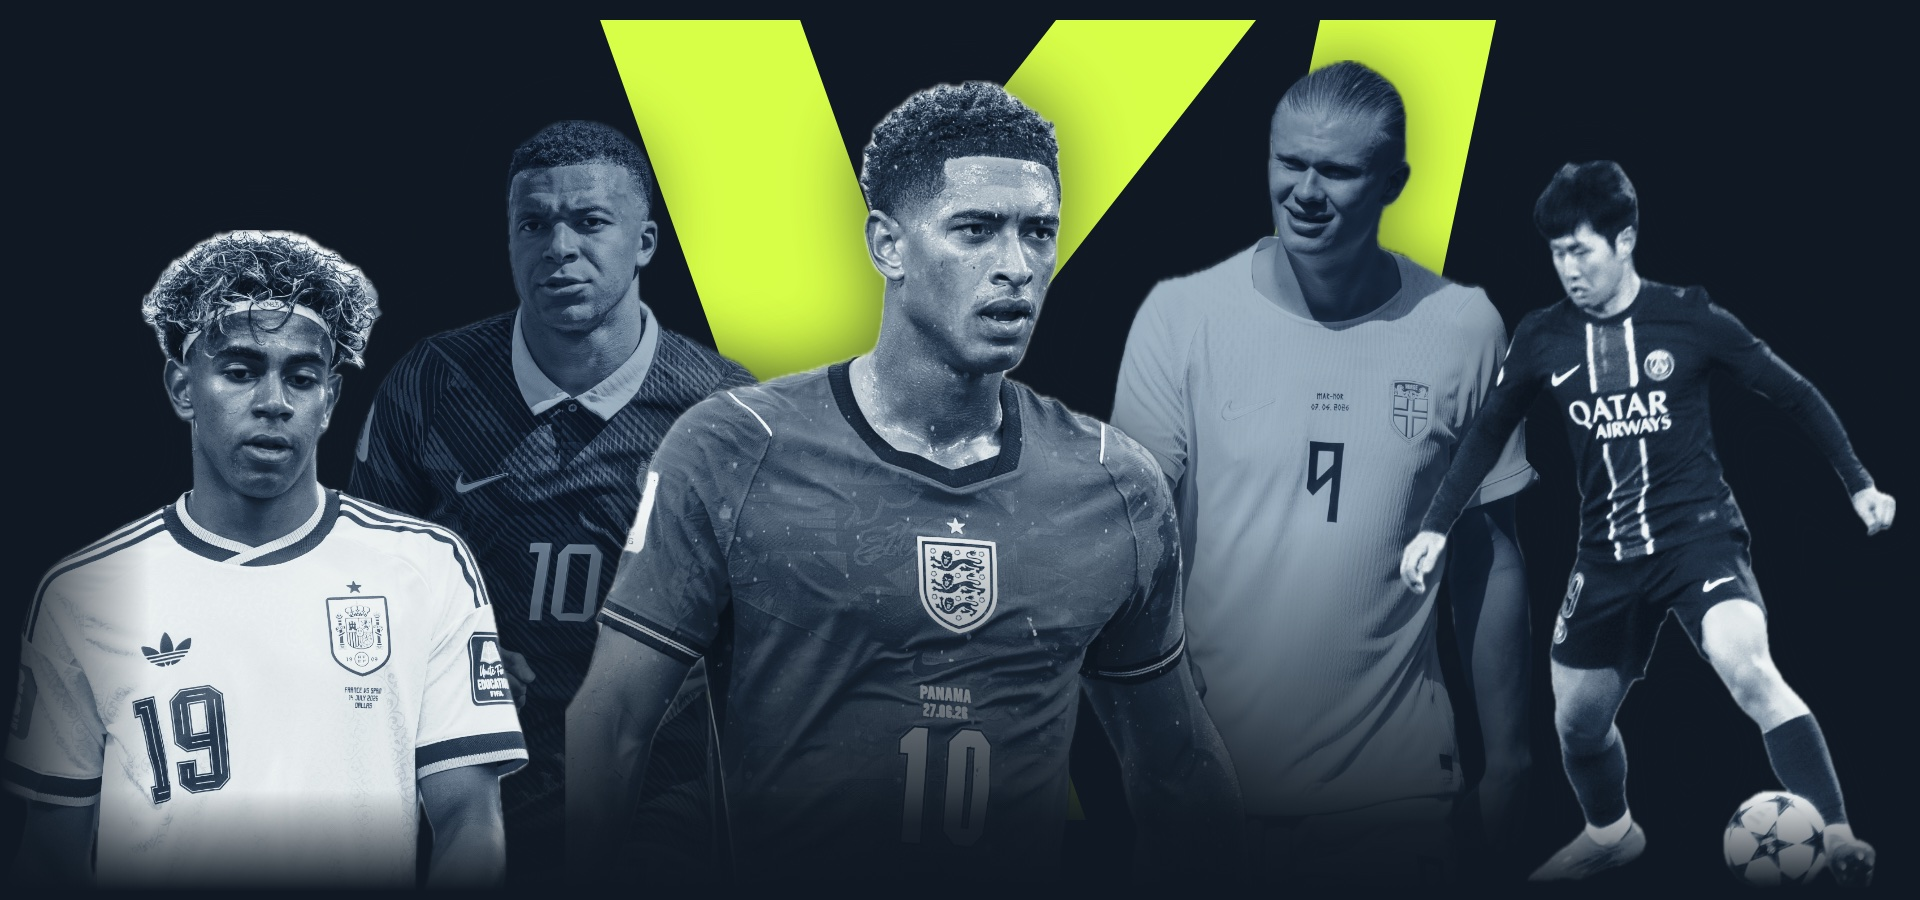
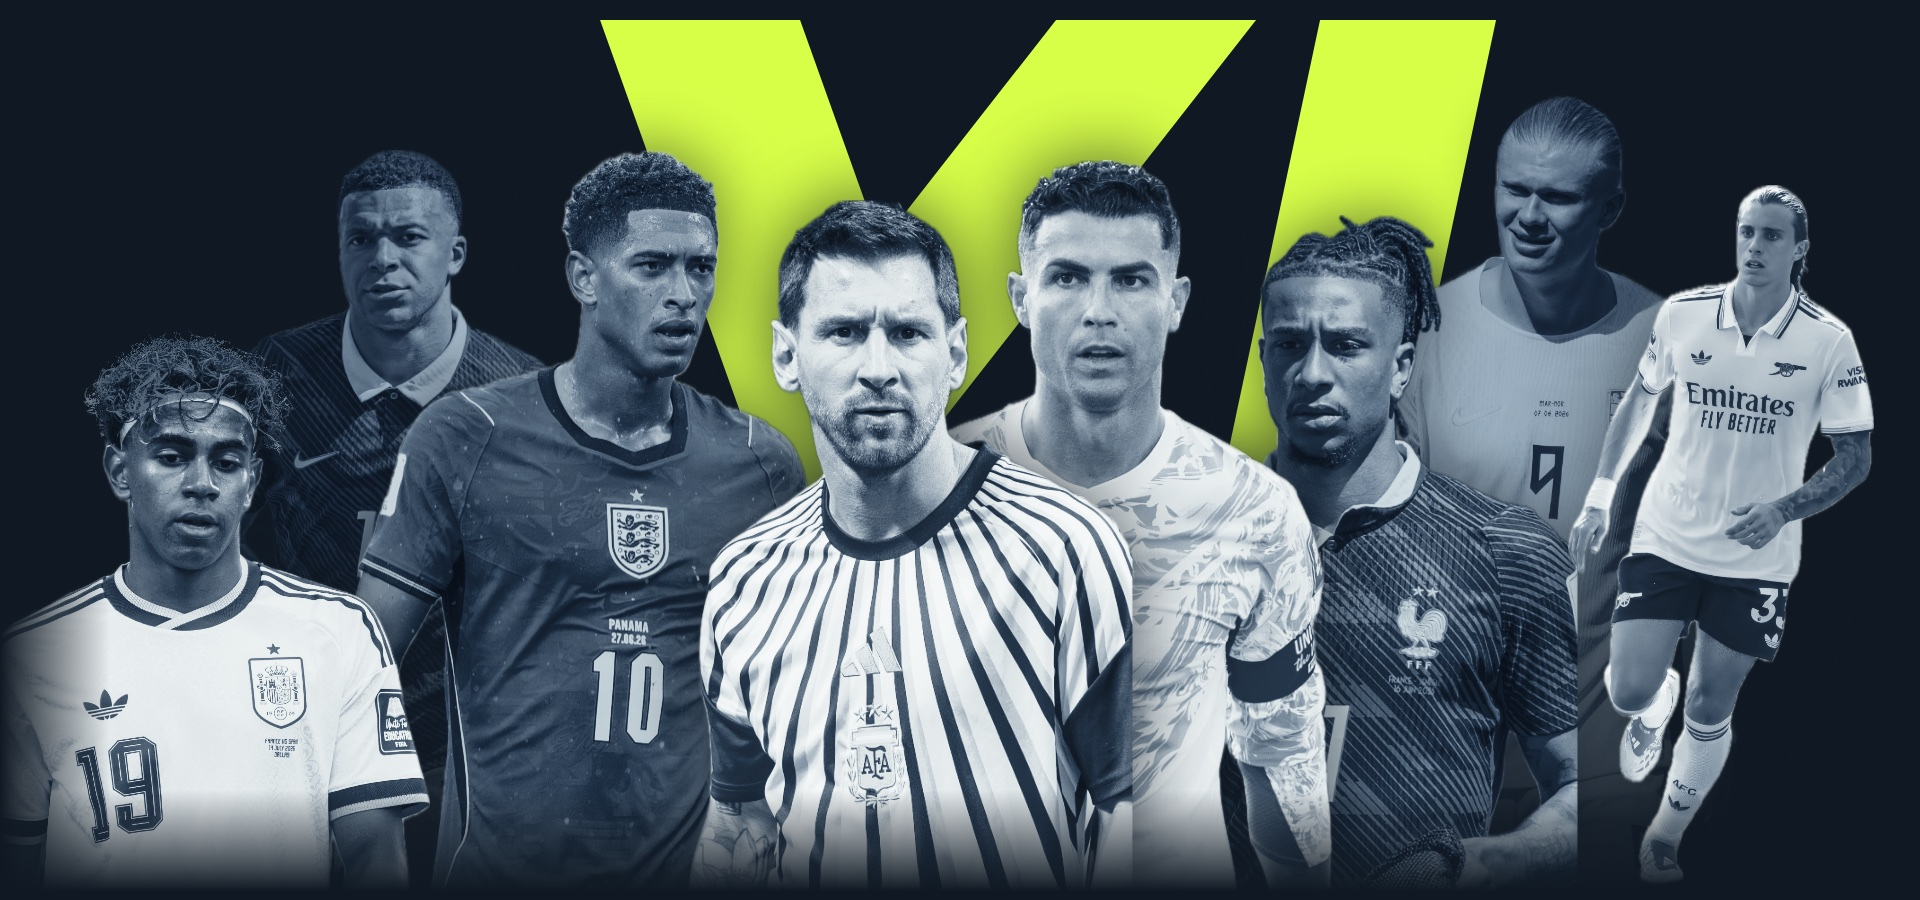
첫 화면을 로고와 한 줄 문구로 바꾸고 문구 전체 다시 작성, 선수 여덟 명 이미지

diff --git a/index.html b/index.html
@@ -3,11 +3,11 @@
 <head>
 <meta charset="utf-8">
 <meta name="viewport" content="width=device-width, initial-scale=1">
-<title>POSTXI — 경기 결과에서 시작하는 축구 정보</title>
-<meta name="description" content="경기에서 있었던 일, 데이터, 팬 반응을 한 곳에 모읍니다. 사전 신청을 받고 있습니다.">
+<title>POSTXI — 새벽 축구 소식을 한눈에</title>
+<meta name="description" content="퇴장, 판정 논란, 선수 기록, 팬 반응까지. 자는 사이 벌어진 일을 한 화면에 모아 드립니다. 사전 신청을 받고 있습니다.">
 <meta name="theme-color" content="#101923">
-<meta property="og:title" content="POSTXI — 경기 결과에서 시작하는 축구 정보">
-<meta property="og:description" content="경기에서 있었던 일, 데이터, 팬 반응을 한 곳에. 사전 신청을 받고 있습니다.">
+<meta property="og:title" content="POSTXI — 새벽 축구 소식을 한눈에">
+<meta property="og:description" content="새벽 경기, 못 봐도 다 본 사람처럼. 사전 신청을 받고 있습니다.">
 <meta property="og:type" content="website">
 <meta property="og:image" content="https://sangwoo-97.github.io/postxi/concept-wide.jpg">
 <link rel="icon" href="favicon.svg" type="image/svg+xml">
@@ -38,41 +38,59 @@
     overflow-wrap: anywhere;
     -webkit-font-smoothing: antialiased;
   }
-  h1, h2, h3, p, ul, blockquote { margin: 0; padding: 0; }
+  h1, h2, h3, p, ul { margin: 0; padding: 0; }
   ul { list-style: none; }
-  img { display: block; }
+  img, svg { display: block; }
+  em { font-style: normal; color: var(--lime); }
   .wrap { width: min(100% - 40px, 1040px); margin-inline: auto; }
   :focus-visible { outline: 3px solid var(--lime); outline-offset: 4px; }
   .sr { position: absolute; width: 1px; height: 1px; overflow: hidden; clip: rect(0 0 0 0); white-space: nowrap; }
 
-  .wordmark { display: block; height: 26px; width: auto; align-self: flex-start; }
+  /* 첫 화면: 어둡게 깐 컨셉 사진 위에 로고, 그 아래 한 줄.
+     사진을 바꾸려면 concept.jpg(휴대폰, 세로)와 concept-wide.jpg(PC, 가로)만 갈아 끼우면 된다. */
+  .hero { position: relative; display: grid; place-items: center; height: min(118.5vw, 88svh); min-height: 420px; overflow: hidden; isolation: isolate; }
+  .hero-bg, .hero-bg img { position: absolute; inset: 0; width: 100%; height: 100%; }
+  .hero-bg img { object-fit: cover; object-position: 50% 30%; }
+  .hero::after { content: ""; position: absolute; inset: 0; z-index: 1; background: linear-gradient(rgba(16,25,35,.66), rgba(16,25,35,.72) 55%, var(--navy) 98%); }
+  .hero-in { position: relative; z-index: 2; padding: 0 20px; text-align: center; font-size: inherit; font-weight: inherit; }
+  .hero-logo { width: min(68vw, 460px); height: auto; margin: 0 auto; }
+  .tagline { display: block; margin-top: clamp(14px, 3.8vw, 26px); font-size: clamp(17px, 4.8vw, 26px); font-weight: 700; letter-spacing: -0.01em; }
 
-  /* 첫 화면: 선수 다섯 명을 한 장으로 합친 그림, 그 아래에 약속 */
-  .hero { padding: 20px 0 36px; }
-  .concept { display: block; margin-top: 16px; }
-  .concept img { width: 100%; height: auto; }
-  .hero-copy { margin-top: 6px; }
-  .promise { font-weight: 900; letter-spacing: -0.02em; }
-  .promise-not { display: block; color: var(--slate-l); font-size: clamp(15px, 4.2vw, 22px); font-weight: 700; line-height: 1.4; }
-  .promise-is { display: block; margin-top: 8px; font-size: clamp(34px, 9.4vw, 68px); line-height: 1.16; }
-  .promise-is em { display: block; font-style: normal; color: var(--lime); }
-  .lead { margin-top: 14px; color: var(--slate-l); }
+  /* 블록 공통 */
+  .block { padding: 52px 0; }
+  .block-title { font-size: clamp(30px, 8vw, 56px); font-weight: 900; line-height: 1.2; letter-spacing: -0.02em; }
+  .block-sub { margin-top: 14px; color: var(--slate-l); max-width: 30em; }
 
-  /* 버튼: 워드마크와 같은 12° 기울임 */
-  .cta {
-    display: inline-block; margin: 0 8px; padding: 17px 34px; border: 0; border-radius: 0;
-    background: var(--lime); color: var(--navy);
-    font-family: inherit; font-size: 19px; font-weight: 900; text-decoration: none; line-height: 1.2; text-align: center;
-    transform: skewX(var(--slant)); cursor: pointer;
-    transition: background-color .15s ease;
+  /* 문제: 경기 시간과 챙겨 보는 시간을 막대 길이로 비교 (90분 : 120분) */
+  .gap { background: linear-gradient(rgba(16,25,35,.84), rgba(16,25,35,.94)), url("stadium.jpg") center / cover no-repeat; }
+  .bars { margin-top: 26px; display: grid; gap: 10px; max-width: 640px; }
+  .bar {
+    display: flex; justify-content: space-between; align-items: center; height: 58px; padding: 0 28px 0 18px; font-weight: 700;
+    clip-path: polygon(0 0, 100% 0, calc(100% - 12px) 100%, 0 100%);
   }
-  .cta > span { display: inline-block; transform: skewX(calc(var(--slant) * -1)); }
-  .cta:hover { background: #E6FF85; }
-  .cta:active { background: #C4EE2E; }
-  .cta[disabled] { opacity: .6; cursor: default; }
+  .bar b { font-size: 22px; font-weight: 900; }
+  .bar-match { width: 75%; background: var(--line); }
+  .bar-after { width: 100%; background: var(--off); color: var(--navy); }
 
-  /* 신청: 이메일 칸 하나 + 버튼 하나 */
-  .signup { margin-top: 22px; display: grid; gap: 12px; max-width: 520px; }
+  /* 해결: 아침에 궁금한 세 가지를 질문 그대로 */
+  .asks { margin-top: 28px; border-top: 1px solid var(--line); }
+  .asks li { padding: 20px 0; border-bottom: 1px solid var(--line); }
+  .asks h3 { display: flex; gap: 12px; align-items: baseline; font-size: clamp(22px, 5.8vw, 28px); font-weight: 900; line-height: 1.3; letter-spacing: -0.01em; }
+  .asks h3::before { content: ""; flex: none; align-self: flex-start; margin-top: .16em; width: 7px; height: 1em; background: var(--lime); transform: skewX(var(--slant)); }
+  .asks p { margin-top: 6px; padding-left: 19px; color: var(--slate-l); }
+
+  /* 질문 */
+  .faq { margin-top: 20px; border-top: 1px solid var(--line); max-width: 40em; }
+  .faq details { border-bottom: 1px solid var(--line); }
+  .faq summary { padding: 16px 28px 16px 0; font-size: 18px; font-weight: 700; cursor: pointer; list-style: none; position: relative; }
+  .faq summary::-webkit-details-marker { display: none; }
+  .faq summary::after { content: "+"; position: absolute; right: 2px; top: 11px; color: var(--lime); font-family: Inter, sans-serif; font-size: 24px; font-weight: 500; }
+  .faq details[open] summary::after { content: "–"; }
+  .faq details p { padding: 0 0 18px; color: var(--slate-l); }
+  .faq-title { font-size: clamp(22px, 5vw, 30px); font-weight: 900; letter-spacing: -0.02em; }
+
+  /* 신청: 이메일 칸 하나 + 버튼 하나. 버튼은 워드마크와 같은 12° 기울임 */
+  .signup { margin-top: 24px; display: grid; gap: 12px; max-width: 520px; }
   .signup-input {
     width: 100%; height: 56px; padding: 0 16px; border: 1.5px solid var(--line); border-radius: 0;
     background: var(--card); color: var(--off); font-family: inherit; font-size: 18px;
@@ -83,47 +101,31 @@
   .signup-msg { color: var(--lime); font-size: 15px; }
   .signup-msg:empty { display: none; }
   .signup-done { margin-top: 22px; color: var(--lime); font-size: 20px; font-weight: 700; }
-
-  /* 블록 공통 */
-  .block { padding: 52px 0; }
-  .block-title { font-size: clamp(26px, 5.6vw, 44px); font-weight: 900; line-height: 1.26; letter-spacing: -0.02em; }
-  .block-sub { margin-top: 12px; color: var(--slate-l); max-width: 30em; }
-
-  /* 세 가지: 이름 하나에 말 한 줄 */
-  .gather { margin-top: 24px; border-top: 1px solid var(--line); max-width: 40em; }
-  .gather li { display: grid; grid-template-columns: 6.4em 1fr; gap: 12px; align-items: baseline; padding: 15px 0; border-bottom: 1px solid var(--line); }
-  .gather h3 { font-size: 21px; font-weight: 900; line-height: 1.3; }
-  .gather p { color: var(--slate-l); }
-
-  /* 근거 */
-  .proof { background: linear-gradient(rgba(16,25,35,.8), rgba(16,25,35,.92)), url("stadium.jpg") center / cover no-repeat; }
-  .quote p { font-size: clamp(26px, 6vw, 44px); font-weight: 900; line-height: 1.3; letter-spacing: -0.02em; }
-  .quote cite { display: block; margin-top: 12px; color: var(--slate-l); font-size: 15px; font-style: normal; }
-
-  /* 질문 */
-  .faq { margin-top: 20px; border-top: 1px solid var(--line); max-width: 40em; }
-  .faq details { border-bottom: 1px solid var(--line); }
-  .faq summary { padding: 16px 28px 16px 0; font-size: 18px; font-weight: 700; cursor: pointer; list-style: none; position: relative; }
-  .faq summary::-webkit-details-marker { display: none; }
-  .faq summary::after { content: "+"; position: absolute; right: 2px; top: 11px; color: var(--lime); font-family: Inter, sans-serif; font-size: 24px; font-weight: 500; }
-  .faq details[open] summary::after { content: "–"; }
-  .faq details p { padding: 0 0 18px; color: var(--slate-l); }
+  .cta {
+    display: inline-block; margin: 0 8px; padding: 17px 34px; border: 0; border-radius: 0;
+    background: var(--lime); color: var(--navy);
+    font-family: inherit; font-size: 19px; font-weight: 900; line-height: 1.2; text-align: center;
+    transform: skewX(var(--slant)); cursor: pointer;
+    transition: background-color .15s ease;
+  }
+  .cta > span { display: inline-block; transform: skewX(calc(var(--slant) * -1)); }
+  .cta:hover { background: #E6FF85; }
+  .cta:active { background: #C4EE2E; }
+  .cta[disabled] { opacity: .6; cursor: default; }
 
   /* 바닥 */
   .foot { padding: 28px 0 40px; border-top: 1px solid var(--line); color: var(--slate); font-size: 13px; }
-  .foot .wordmark { height: 18px; margin-bottom: 12px; }
+  .foot svg { height: 18px; width: auto; margin-bottom: 12px; }
   .foot p + p { margin-top: 6px; }
   .foot a { color: inherit; }
 
   @media (min-width: 760px) {
     body { font-size: 18px; }
-    .wordmark { height: 32px; }
-    .hero { padding: 32px 0 64px; }
-    .concept { width: min(100% - 40px, 1040px); margin: 24px auto 0; }
-    .hero-copy { margin-top: 14px; }
+    .hero { height: min(46.9vw, 84vh); }
     .block { padding: 88px 0; }
+    .asks { display: grid; grid-template-columns: repeat(3, 1fr); gap: 36px; border-top: 0; }
+    .asks li { padding: 22px 0 0; border-top: 1px solid var(--line); border-bottom: 0; }
   }
-
 </style>
 </head>
 <body>
@@ -132,63 +134,60 @@
 
   <!-- 1. 한 줄 약속 -->
   <section class="hero">
-    <div class="wrap">
-      <svg class="wordmark" viewBox="0 0 464 100" role="img" aria-label="POSTXI" xmlns="http://www.w3.org/2000/svg">
+    <picture class="hero-bg">
+      <source media="(min-width: 760px)" srcset="concept-wide.jpg">
+      <img src="concept.jpg" alt="">
+    </picture>
+    <h1 class="hero-in">
+      <svg class="hero-logo" viewBox="0 0 464 100" role="img" aria-label="POSTXI" xmlns="http://www.w3.org/2000/svg">
         <path fill="#F3F5F5" fill-rule="evenodd" clip-rule="evenodd" d="M21.256 0H57.256C76.033 0 88.02 15.222 84.029 34C80.037 52.778 61.579 68 42.802 68H28.802L22 100H0L21.256 0ZM38.579 22H52.579C59.207 22 63.437 27.373 62.029 34C60.62 40.627 54.105 46 47.478 46H33.478L38.579 22ZM140.256 0C162.899 0 177.354 18.356 172.541 41L168.715 59C163.902 81.644 141.644 100 119 100C96.356 100 81.902 81.644 86.715 59L90.541 41C95.354 18.356 117.612 0 140.256 0ZM135.579 22C146.073 22 152.771 30.507 150.541 41L146.715 59C144.484 69.493 134.17 78 123.676 78C113.183 78 106.484 69.493 108.715 59L112.541 41C114.771 30.507 125.086 22 135.579 22ZM259.256 0H219.756C202.911 0 186.353 13.655 182.773 30.5C179.192 47.345 189.945 61 206.79 61H215.79C220.484 61 223.481 64.806 222.483 69.5C221.485 74.194 216.871 78 212.176 78H172.676L168 100H207.5C224.345 100 240.903 86.345 244.483 69.5C248.063 52.655 237.311 39 220.466 39H211.466C206.772 39 203.775 35.194 204.773 30.5C205.771 25.806 210.385 22 215.079 22H254.579L259.256 0ZM267.256 0H341.256L336.579 22H310.579L294 100H272L288.579 22H262.579L267.256 0Z"/>
         <path fill="#D8FF48" fill-rule="evenodd" clip-rule="evenodd" d="M351.256 0H376.256L386.289 28.07L408.256 0H433.256L394.128 50L412 100H387L376.966 71.93L355 100H330L369.128 50L351.256 0ZM441.256 0H463.256L442 100H420L441.256 0Z"/>
       </svg>
-    </div>
+      <span class="tagline">새벽 축구 소식을 한눈에</span>
+    </h1>
+  </section>
 
-    <picture class="concept">
-      <source media="(min-width: 760px)" srcset="concept-wide.jpg" width="1920" height="900">
-      <img src="concept.jpg" alt="커다란 XI 글자 앞에 모여 선 축구 선수 다섯 명" width="1080" height="1280">
-    </picture>
-
-    <div class="wrap hero-copy">
-      <h1 class="promise">
-        <span class="promise-not">POSTXI는 경기 결과에서 끝나는 앱이 아닙니다.</span>
-        <span class="promise-is">경기 결과에서 시작하는 <em>축구 정보입니다.</em></span>
-      </h1>
-      <p class="lead">경기에서 있었던 일, 데이터, 팬 반응을 한 곳에.</p>
+  <!-- 2. 고객의 문제 + 근거 (인터뷰에서 들은 시간) -->
+  <section class="block gap">
+    <div class="wrap">
+      <h2 class="block-title">경기는 90분.<br>챙겨 보는 데는 2시간.</h2>
+      <div class="bars" role="img" aria-label="경기는 90분, 끝난 뒤 챙겨 보는 데는 2시간">
+        <div class="bar bar-match"><span>경기</span><b>90분</b></div>
+        <div class="bar bar-after"><span>끝난 뒤 챙겨 보기</span><b>2시간</b></div>
+      </div>
+      <p class="block-sub">하이라이트를 찾고, 평점을 보고, 커뮤니티 글을 끝까지 내려 읽습니다. 인터뷰에서 만난 팬은 다 보는 데 2시간쯤 쓴다고 했습니다.</p>
     </div>
   </section>
 
-  <!-- 2. 고객의 문제 + 3. 우리의 해결책 -->
+  <!-- 3. 우리의 해결책 -->
   <section class="block">
     <div class="wrap">
-      <h2 class="block-title">결과는 금방 봅니다.<br>그다음이 오래 걸립니다.</h2>
-      <p class="block-sub">댓글을 내려 읽고, 영상을 찾고, 기록을 다시 확인합니다. POSTXI는 이 세 가지를 한 곳에 모읍니다.</p>
-
-      <ul class="gather">
-        <li><h3>있었던 일</h3><p>퇴장, 부상, 논란을 목록으로</p></li>
-        <li><h3>데이터</h3><p>기록을 출처와 함께</p></li>
-        <li><h3>팬 반응</h3><p>가장 많이 이야기된 장면</p></li>
+      <h2 class="block-title">새벽 경기,<br>못 봐도 <em>다 본 사람처럼.</em></h2>
+      <p class="block-sub">아침에 궁금한 건 결국 세 가지입니다. POSTXI가 한 화면에 모아 드립니다.</p>
+      <ul class="asks">
+        <li><h3>“그래서 무슨 일이 있었는데?”</h3><p>퇴장, 부상, 판정 논란을 시간순으로. 영상과 사진도 함께.</p></li>
+        <li><h3>“누가 잘했어?”</h3><p>선수 기록을 출처와 함께. 우길 필요 없이 숫자로.</p></li>
+        <li><h3>“다들 뭐래?”</h3><p>팬들이 가장 많이 이야기한 장면부터.</p></li>
       </ul>
     </div>
   </section>
 
-  <!-- 4. 근거 -->
-  <section class="block proof">
-    <div class="wrap">
-      <blockquote class="quote">
-        <p>“다 보는 데는<br>2시간 정도는 씀.”</p>
-        <cite>해외축구 팬 인터뷰에서. 경기 후 결과, 평점, 하이라이트를 찾는 시간</cite>
-      </blockquote>
-    </div>
-  </section>
-
-  <!-- 5. 자주 묻는 질문 -->
+  <!-- 4. 자주 묻는 질문 -->
   <section class="block">
     <div class="wrap">
-      <h2 class="block-title">자주 묻는 질문</h2>
+      <h2 class="faq-title">자주 묻는 질문</h2>
       <div class="faq">
         <details>
           <summary>지금 바로 쓸 수 있나요?</summary>
-          <p>아직 만드는 중입니다. 필요한 분이 얼마나 되는지 먼저 확인하고 있습니다.</p>
+          <p>아직 만드는 중입니다. 사전 신청하신 분께 가장 먼저 알려 드립니다.</p>
+        </details>
+        <details>
+          <summary>돈을 내야 하나요?</summary>
+          <p>사전 신청은 무료입니다. 정식 가격은 아직 정하지 않았습니다.</p>
         </details>
         <details>
           <summary>누구를 위한 서비스인가요?</summary>
-          <p>축구 영상이나 게시물을 만드는 분, 기록을 근거로 이야기하는 분을 먼저 생각하고 있습니다.</p>
+          <p>해외축구를 챙겨 보는 분 모두입니다. 축구 영상이나 글을 만드는 분, 기록을 근거로 이야기하는 분께 특히 잘 맞습니다.</p>
         </details>
         <details>
           <summary>남긴 이메일은 어디에 쓰나요?</summary>
@@ -198,11 +197,11 @@
     </div>
   </section>
 
-  <!-- 6. 혜택 · 가격 + 행동 버튼: 신청은 여기 한 곳에서만 받는다 -->
+  <!-- 5. 혜택 · 가격 + 행동 버튼: 신청은 여기 한 곳에서만 받는다 -->
   <section class="block" id="signup">
     <div class="wrap">
-      <h2 class="block-title">사전 신청은 무료입니다.</h2>
-      <p class="block-sub">열리는 날 이메일로 먼저 알려 드립니다. 정식 가격은 아직 정하지 않았습니다.</p>
+      <h2 class="block-title">새벽 알람 대신,<br>출시 알림을 받아 보세요.</h2>
+      <p class="block-sub">사전 신청은 무료입니다. 열리는 날 이메일로 가장 먼저 알려 드립니다.</p>
       <form class="signup" data-signup="bottom" novalidate>
         <label class="sr" for="email-bottom">이메일 주소</label>
         <input class="signup-input" id="email-bottom" type="email" name="email" inputmode="email" autocomplete="email" placeholder="이메일 주소" required>
@@ -216,20 +215,23 @@
 
 <footer class="foot">
   <div class="wrap">
-    <svg class="wordmark" viewBox="0 0 464 100" aria-hidden="true" xmlns="http://www.w3.org/2000/svg">
+    <svg viewBox="0 0 464 100" aria-hidden="true" xmlns="http://www.w3.org/2000/svg">
       <path fill="#82929D" fill-rule="evenodd" clip-rule="evenodd" d="M21.256 0H57.256C76.033 0 88.02 15.222 84.029 34C80.037 52.778 61.579 68 42.802 68H28.802L22 100H0L21.256 0ZM38.579 22H52.579C59.207 22 63.437 27.373 62.029 34C60.62 40.627 54.105 46 47.478 46H33.478L38.579 22ZM140.256 0C162.899 0 177.354 18.356 172.541 41L168.715 59C163.902 81.644 141.644 100 119 100C96.356 100 81.902 81.644 86.715 59L90.541 41C95.354 18.356 117.612 0 140.256 0ZM135.579 22C146.073 22 152.771 30.507 150.541 41L146.715 59C144.484 69.493 134.17 78 123.676 78C113.183 78 106.484 69.493 108.715 59L112.541 41C114.771 30.507 125.086 22 135.579 22ZM259.256 0H219.756C202.911 0 186.353 13.655 182.773 30.5C179.192 47.345 189.945 61 206.79 61H215.79C220.484 61 223.481 64.806 222.483 69.5C221.485 74.194 216.871 78 212.176 78H172.676L168 100H207.5C224.345 100 240.903 86.345 244.483 69.5C248.063 52.655 237.311 39 220.466 39H211.466C206.772 39 203.775 35.194 204.773 30.5C205.771 25.806 210.385 22 215.079 22H254.579L259.256 0ZM267.256 0H341.256L336.579 22H310.579L294 100H272L288.579 22H262.579L267.256 0Z"/>
       <path fill="#82929D" fill-rule="evenodd" clip-rule="evenodd" d="M351.256 0H376.256L386.289 28.07L408.256 0H433.256L394.128 50L412 100H387L376.966 71.93L355 100H330L369.128 50L351.256 0ZM441.256 0H463.256L442 100H420L441.256 0Z"/>
     </svg>
-    <p>준비 중인 서비스입니다. 사진 속 선수와 구단은 이 서비스와 관계가 없습니다.</p>
+    <p>POSTXI는 경기 결과에서 시작하는 축구 정보입니다. 준비 중인 서비스이며, 사진 속 선수와 구단은 이 서비스와 관계가 없습니다.</p>
     <p>
       선수 사진(배경을 지우고 색을 바꿔 한 장으로 합침, <a href="https://creativecommons.org/licenses/by-sa/4.0/deed.ko">CC BY-SA 4.0</a>, Wikimedia Commons):
       Bryan Berlin
       (<a href="https://commons.wikimedia.org/wiki/File:Jude_Bellingham_England_v_Panama_27_June_26-082.jpg">1</a>,
       <a href="https://commons.wikimedia.org/wiki/File:Kylian_Mbappe_France_v_Senegal_16_June_2026-391.jpg">2</a>,
       <a href="https://commons.wikimedia.org/wiki/File:Lamine_Yamal_France_v_Spain_7.24.26-144.jpg">3</a>,
-      <a href="https://commons.wikimedia.org/wiki/File:Erling_Haaland_Morocco_v_Norway_7_June_2026-128.jpg">4</a>),
-      Werner100359
-      (<a href="https://commons.wikimedia.org/wiki/File:FC_Salzburg_gegen_Paris_Saint-Germain_UEFA_Champions_League_78_(Lee_Kang-in).jpg">5</a>).
+      <a href="https://commons.wikimedia.org/wiki/File:Erling_Haaland_Morocco_v_Norway_7_June_2026-128.jpg">4</a>,
+      <a href="https://commons.wikimedia.org/wiki/File:Lionel_Messi_Argentina_v_Egypt_7_July_2026-054.jpg">5</a>,
+      <a href="https://commons.wikimedia.org/wiki/File:Michael_Olise_France_v_Senegal_16_June_2026-307.jpg">6</a>,
+      <a href="https://commons.wikimedia.org/wiki/File:Cristiano_Ronaldo_Croatia_v_Portugal_2_July_2026-075.jpg">7</a>),
+      Chensiyuan
+      (<a href="https://commons.wikimedia.org/wiki/File:1_Riccardo_Calafiori_2026.jpg">8</a>).
       합친 그림도 같은 조건으로 쓸 수 있습니다. 경기장 사진: Unsplash.
     </p>
   </div>
